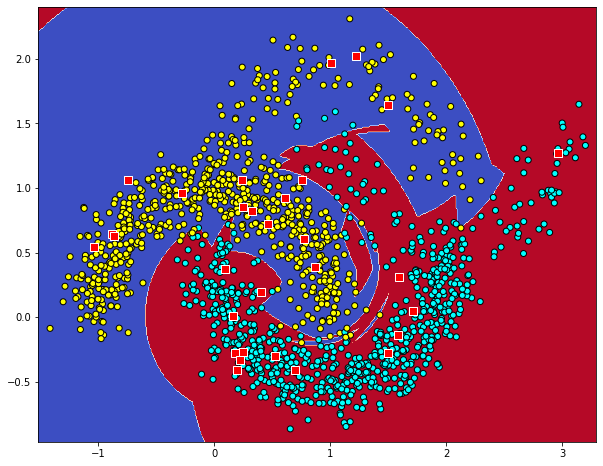
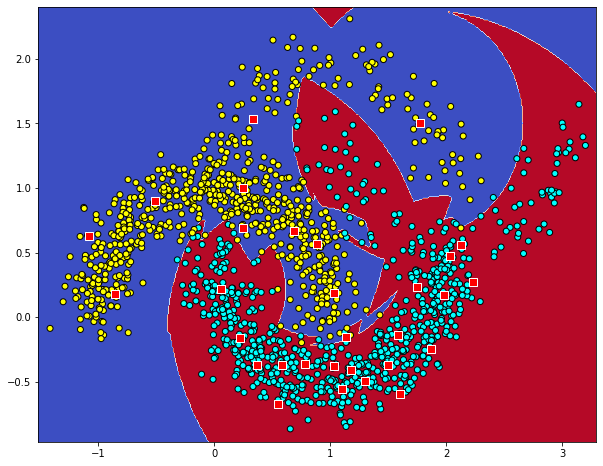
update demo_moon_003

diff --git a/demo/gkernel/RBFClassifier/demo_moon_003/demo_moon_003.md b/demo/gkernel/RBFClassifier/demo_moon_003/demo_moon_003.md
@@ -2182,8 +2182,8 @@ ens_clf.fit(xtrain, ytrain)
     Building estimator 28 of 30 for this parallel run (total 30)...
     Building estimator 29 of 30 for this parallel run (total 30)...
     Building estimator 30 of 30 for this parallel run (total 30)...
-    CPU times: user 359 ms, sys: 6.01 ms, total: 365 ms
-    Wall time: 363 ms
+    CPU times: user 353 ms, sys: 1.86 ms, total: 355 ms
+    Wall time: 352 ms
 
 
     [Parallel(n_jobs=1)]: Done   1 out of   1 | elapsed:    0.4s remaining:    0.0s
@@ -2225,7 +2225,7 @@ ens_clf.estimators_[0].gamma
 
 
 
-    0.6409423907622622
+    0.8187068848641093
 
 
 
@@ -2235,36 +2235,36 @@ for iest in ens_clf.estimators_:
     print(f1_score(ytrain, iest.predict(xtrain), average='macro'))
 ```
 
-    0.9959935897435898
+    0.9959922409785344
+    0.9886453451481114
+    0.9946586808009843
+    0.9933219242118534
+    0.9913216657951246
+    0.9913216657951246
     0.9939913234710923
-    0.9913189768501598
-    0.9926528703899545
-    0.9919844819570689
-    0.9899834348271075
-    0.9939907029497637
-    0.9933240285126292
-    0.9879866518353726
-    0.9946575393694828
-    0.9946592228101033
-    0.9919871794871795
-    0.9899855391184871
-    0.9886478928040552
-    0.9893113670049025
-    0.9933246821213626
-    0.9919871794871795
-    0.9953256029193168
-    0.9939880054027792
-    0.9906526914017224
-    0.9886478928040552
-    0.9899855391184871
-    0.9926537078072386
-    0.9906526914017224
-    0.9853082332660776
-    0.9913160078040144
+    0.9873095034008303
+    0.9886491055717758
+    0.986643848423707
+    0.9946569399226325
+    0.9926574999632876
+    0.9873150162167503
+    0.9879832513227325
     0.9933233510012303
-    0.9926553036052665
-    0.9913170286426735
-    0.9933204016308907
+    0.9913180183176458
+    0.9873137062272788
+    0.9933246821213626
+    0.990648562283247
+    0.9886502776676187
+    0.9933233510012303
+    0.987308011405867
+    0.9926574999632876
+    0.991988834215155
+    0.9899865374559129
+    0.9879832513227325
+    0.9873123507810029
+    0.9933211749032906
+    0.9946581196581197
+    0.9926537078072386
 
 
 
@@ -2305,18 +2305,18 @@ print(classification_report(yans, ens_clf.predict(xtest)))
 print(confusion_matrix(yans, ens_clf.predict(xtest)))
 ```
 
-    F1_SCORE : 0.9873174999365875
+    F1_SCORE : 0.9893173616019684
                   precision    recall  f1-score   support
     
-               0       0.99      0.98      0.99       780
-               1       0.98      0.99      0.99       720
+               0       0.99      0.99      0.99       780
+               1       0.99      0.99      0.99       720
     
         accuracy                           0.99      1500
        macro avg       0.99      0.99      0.99      1500
     weighted avg       0.99      0.99      0.99      1500
     
-    [[767  13]
-     [  6 714]]
+    [[771   9]
+     [  7 713]]
 
 
     [Parallel(n_jobs=1)]: Using backend SequentialBackend with 1 concurrent workers.
@@ -2359,7 +2359,7 @@ plt.scatter(xtrain[:,0], xtrain[:,1], c=ytrain, cmap=cm_bright, edgecolors='k')
 
 
 
-    <matplotlib.collections.PathCollection at 0x7fa9cafb00b8>
+    <matplotlib.collections.PathCollection at 0x7fa9ca808828>
 
 
 
@@ -2394,7 +2394,7 @@ plt.scatter(lm[:,0], lm[:,1], c='red', s=64, marker='s', edgecolors='w')
 
 
 
-    <matplotlib.collections.PathCollection at 0x7fa9caf7ca20>
+    <matplotlib.collections.PathCollection at 0x7fa9ca7efd68>
 
 
 
@@ -2429,7 +2429,7 @@ plt.scatter(lm[:,0], lm[:,1], c='red', s=64, marker='s', edgecolors='w')
 
 
 
-    <matplotlib.collections.PathCollection at 0x7fa9cad9a668>
+    <matplotlib.collections.PathCollection at 0x7fa9ca4ac5c0>
 
 
 
@@ -2464,7 +2464,7 @@ plt.scatter(lm[:,0], lm[:,1], c='red', s=64, marker='s', edgecolors='w')
 
 
 
-    <matplotlib.collections.PathCollection at 0x7fa9cac1b710>
+    <matplotlib.collections.PathCollection at 0x7fa9ca1f8f60>
 
 
 
